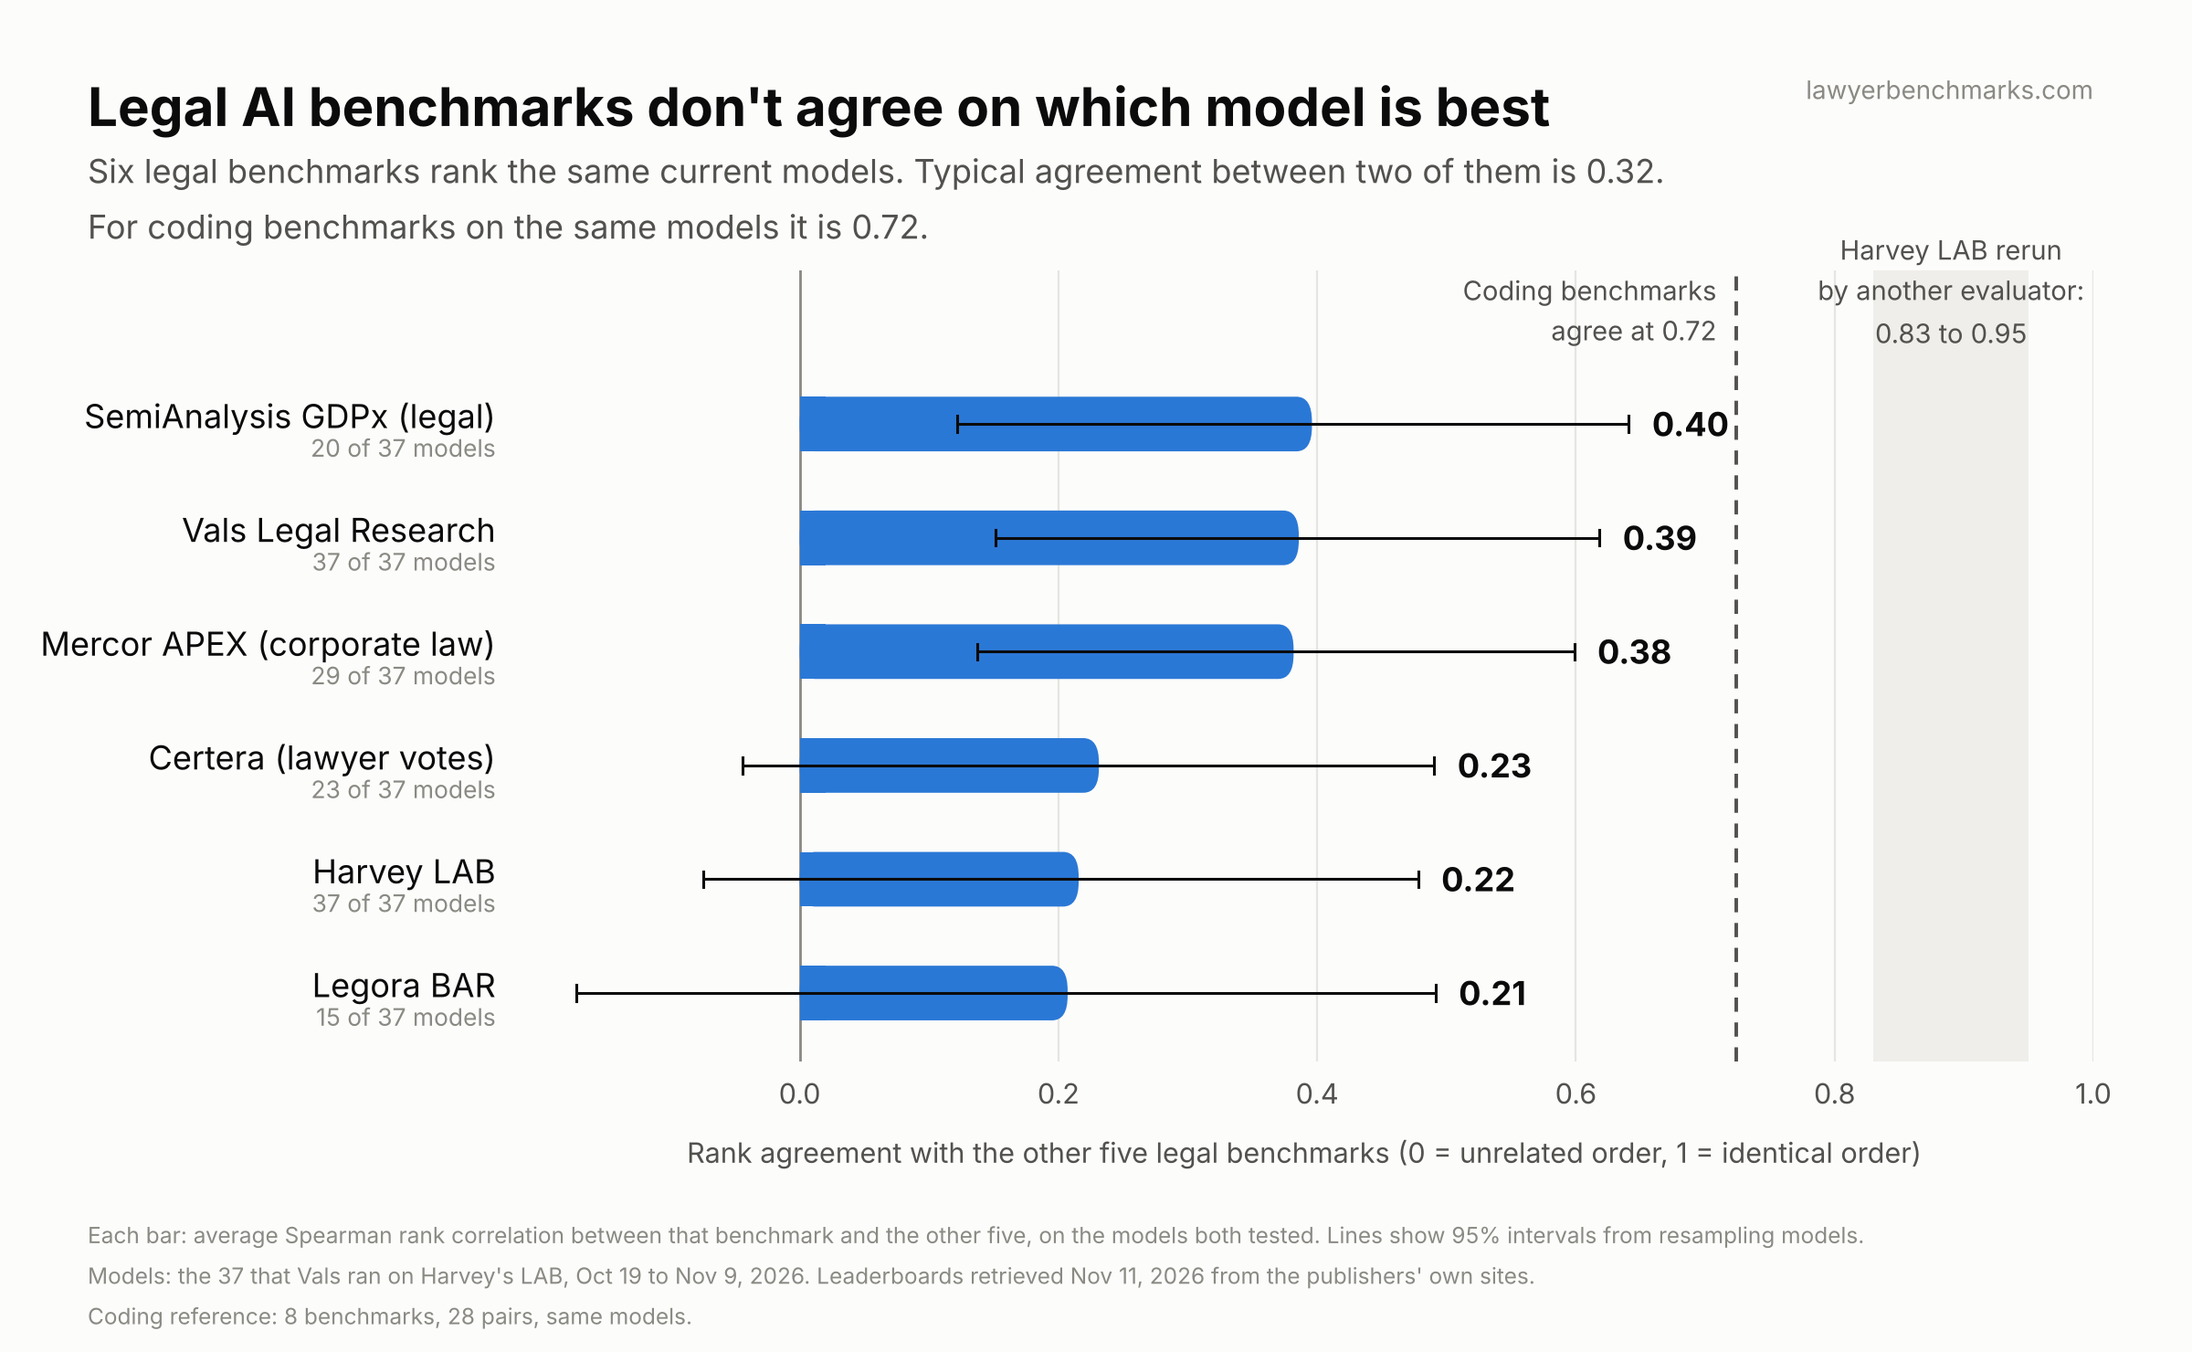
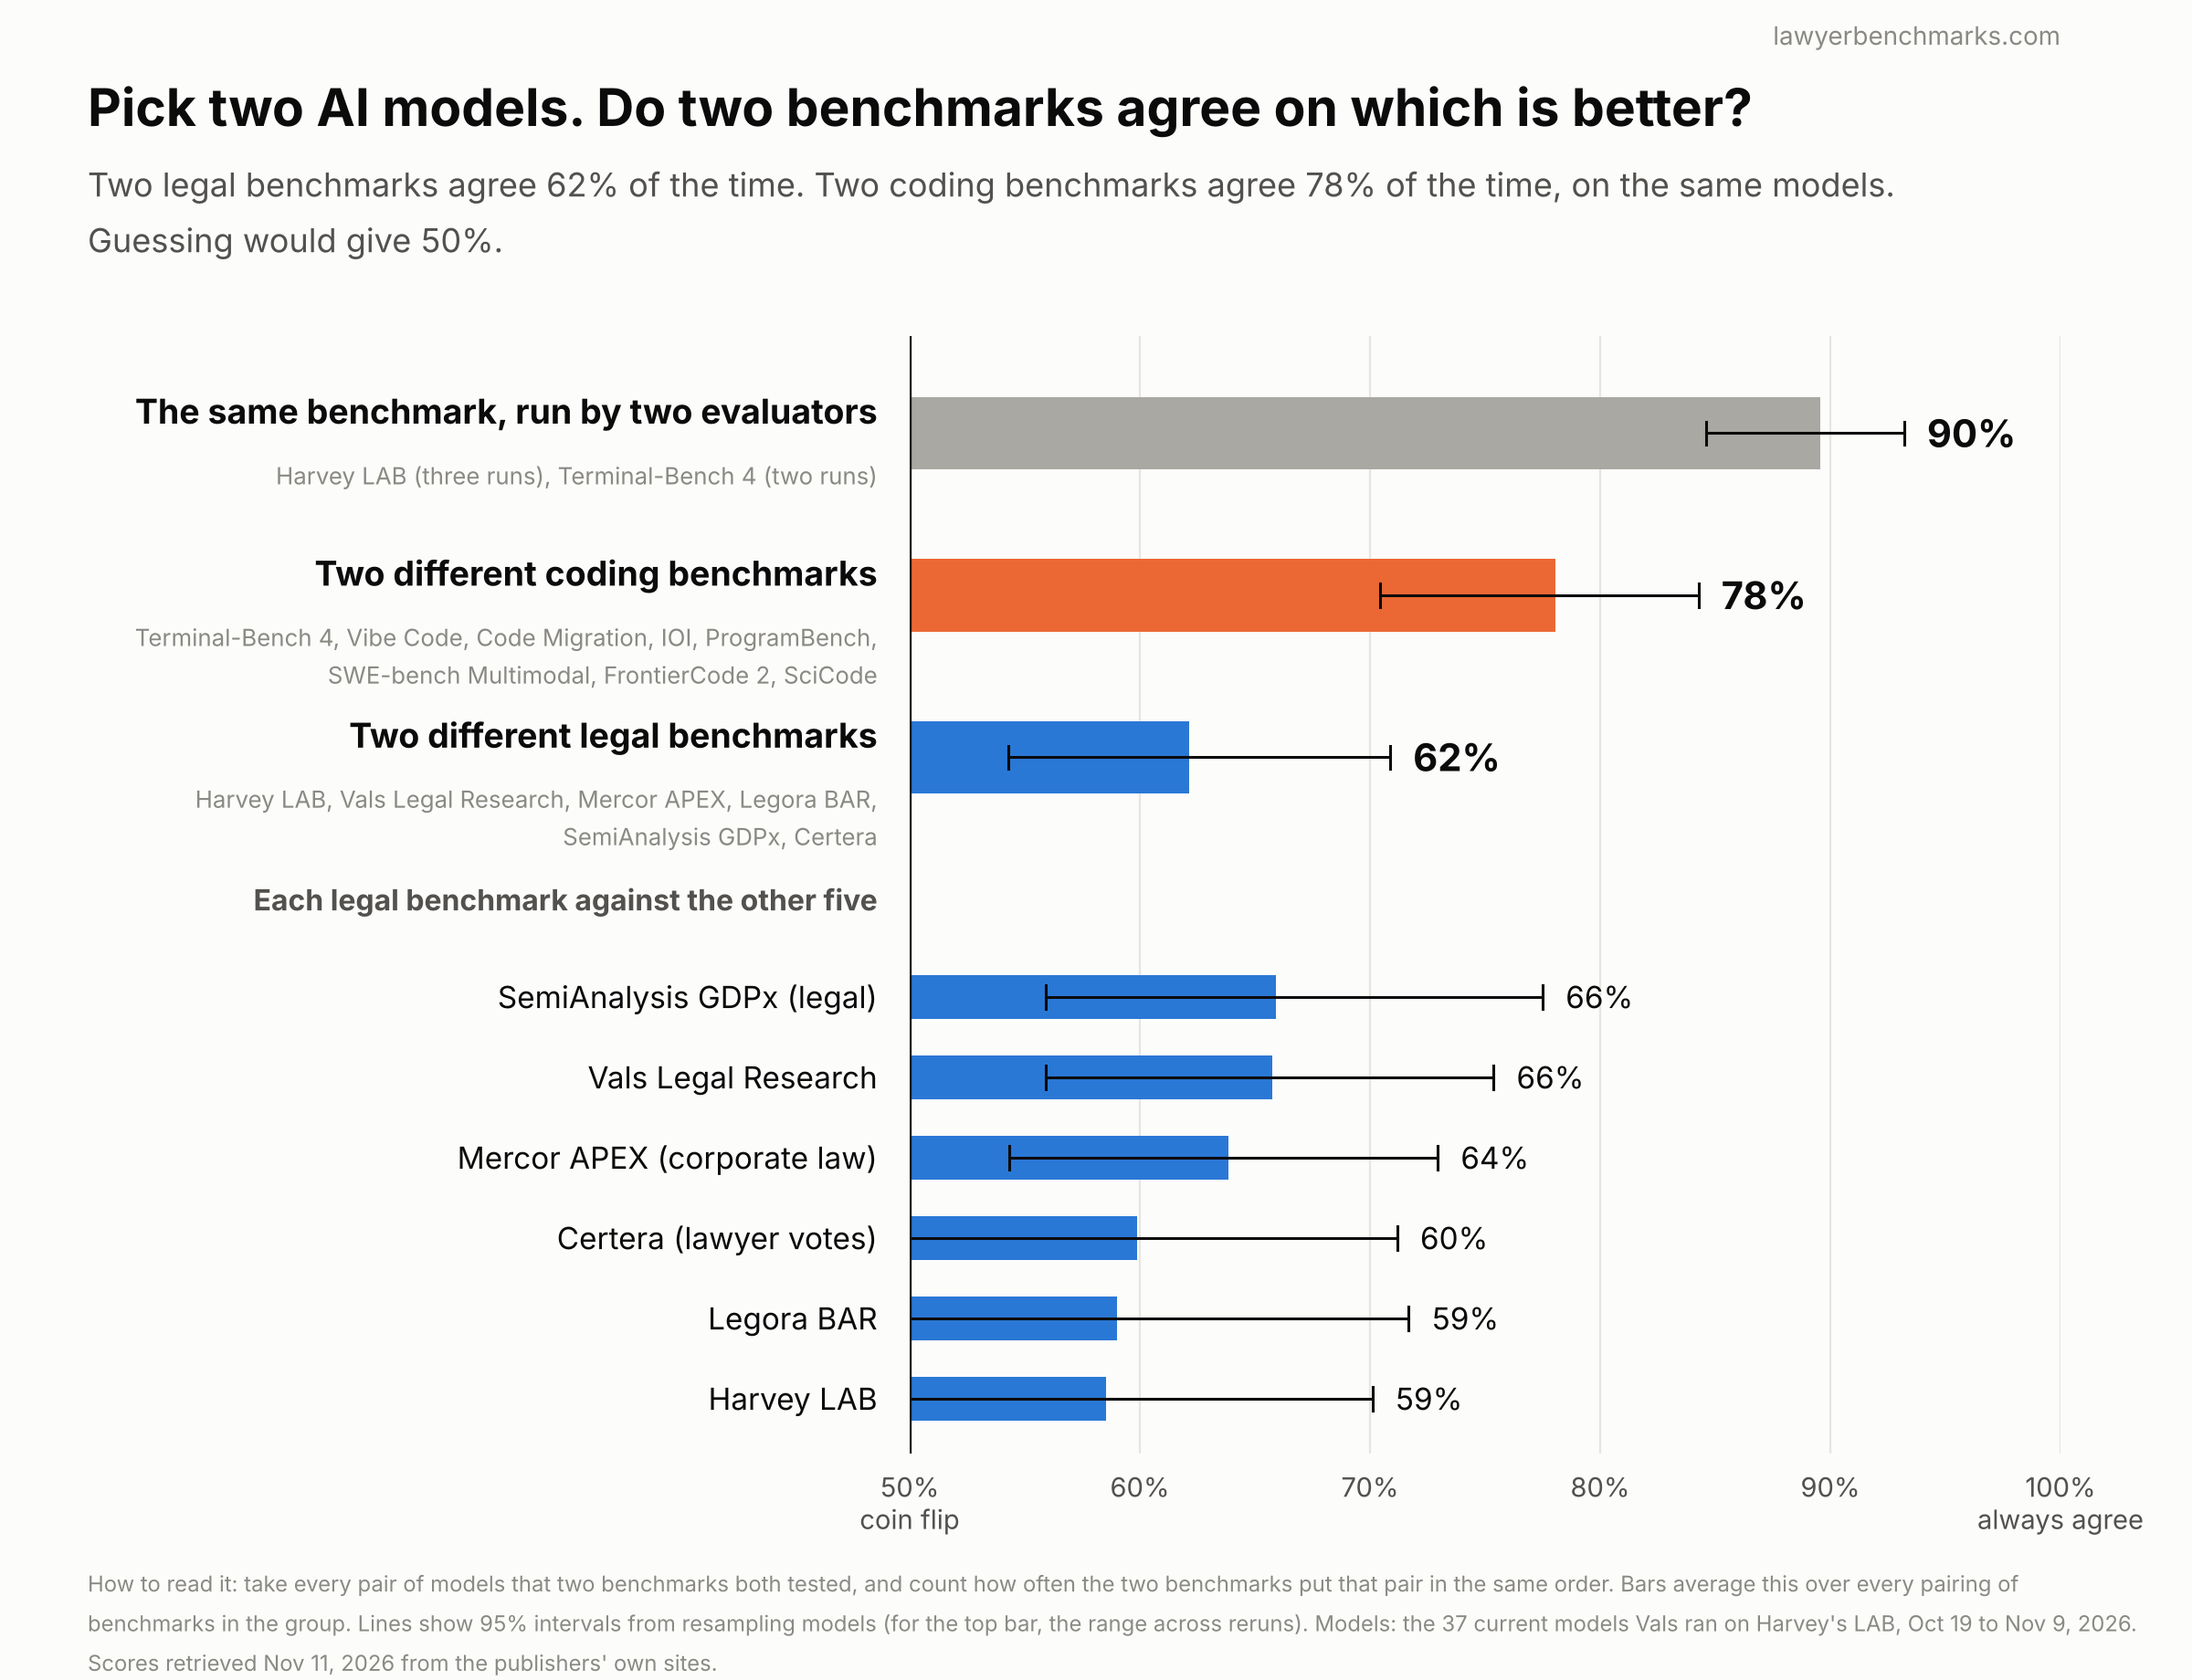
Benchmark agreement draft: plainer measure and redrawn chart
Claude-Session: https://claude.ai/code/session_01TmipKRsNqkBmauKHC5vEDZ

diff --git a/benchmark-agreement/scripts/chart2.py b/benchmark-agreement/scripts/chart2.py
@@ -1,0 +1,43 @@
+import json, matplotlib, numpy as np
+matplotlib.use('Agg')
+import matplotlib.pyplot as plt
+C=json.load(open('data/concord.json'))
+INK='#0b0b0b'; SEC='#52514e'; MUTE='#8a8983'; GRID='#e6e5e0'; SURF='#fcfcfb'; BLUE='#2a78d6'; ORANGE='#eb6834'; GRAY='#a9a8a2'
+same=[v[0]*100 for v in C['same'].values()]
+rows=[  # (label, sublabel, value, lo, hi, color, height)
+ ('The same benchmark, run by two evaluators','Harvey LAB (three runs), Terminal-Bench 4 (two runs)',float(np.mean(same)),min(same),max(same),GRAY,0.5),
+ ('Two different coding benchmarks','Terminal-Bench 4, Vibe Code, Code Migration, IOI, ProgramBench,\nSWE-bench Multimodal, FrontierCode 2, SciCode',C['coding'][1]*100,C['coding_ci'][0]*100,C['coding_ci'][1]*100,ORANGE,0.5),
+ ('Two different legal benchmarks','Harvey LAB, Vals Legal Research, Mercor APEX, Legora BAR,\nSemiAnalysis GDPx, Certera',C['legal'][1]*100,C['legal_ci'][0]*100,C['legal_ci'][1]*100,BLUE,0.5),
+]
+NAME={'GDPx legal':'SemiAnalysis GDPx (legal)','Vals Legal Research':'Vals Legal Research','Mercor APEX law':'Mercor APEX (corporate law)','Certera':'Certera (lawyer votes)','Legora BAR':'Legora BAR','Harvey LAB':'Harvey LAB'}
+per=sorted(C['per_legal'].items(),key=lambda kv:-kv[1])
+fig,ax=plt.subplots(figsize=(12,9.2),dpi=200); fig.patch.set_facecolor(SURF); ax.set_facecolor(SURF)
+plt.subplots_adjust(left=0.415,right=0.94,top=0.80,bottom=0.135)
+y=0; ys=[]
+def bar(y,v,lo,hi,col,h,bold=True):
+    ax.barh(y,v-50,left=50,height=h,color=col,zorder=3,linewidth=0)
+    ax.plot([lo,hi],[y,y],color=INK,lw=1.1,zorder=4); 
+    for x in (lo,hi): ax.plot([x,x],[y-0.09,y+0.09],color=INK,lw=1.1,zorder=4)
+    ax.text(max(hi,v)+1.0,y,f"{v:.0f}%",va='center',ha='left',fontsize=15 if bold else 12,color=INK,fontweight='bold' if bold else 'normal',zorder=5)
+ypos=[0,1.25,2.5]
+for (lab,sub,v,lo,hi,col,h),yy in zip(rows,ypos):
+    bar(yy,v,lo,hi,col,0.56)
+    ax.text(48.6,yy-0.17,lab,ha='right',va='center',fontsize=13.5,color=INK,fontweight='bold')
+    ax.text(48.6,yy+0.2,sub,ha='right',va='top',fontsize=9.3,color=MUTE,linespacing=1.3)
+y0=4.35
+ax.text(48.6,y0-0.75,'Each legal benchmark against the other five',ha='right',va='center',fontsize=11.5,color=SEC,fontweight='bold')
+for i,(k,v) in enumerate(per):
+    yy=y0+i*0.62; lo,hi=[x*100 for x in C['per_legal_ci'][k]]
+    bar(yy,v*100,lo,hi,BLUE,0.34,bold=False)
+    ax.text(48.6,yy,NAME[k],ha='right',va='center',fontsize=12,color=INK)
+ax.axvline(50,color=INK,lw=1.2,zorder=5)
+ax.set_xlim(50,100); ax.set_ylim(y0+len(per)*0.62-0.2,-0.75)
+ax.set_yticks([]); ax.set_xticks([50,60,70,80,90,100]); ax.set_xticklabels(['50%\ncoin flip','60%','70%','80%','90%','100%\nalways agree'],fontsize=10.5,color=SEC); ax.tick_params(axis='x',length=0,pad=7)
+for s in ax.spines.values(): s.set_visible(False)
+ax.xaxis.grid(True,color=GRID,lw=0.8,zorder=0); ax.set_axisbelow(True)
+fig.text(0.04,0.955,"Pick two AI models. Do two benchmarks agree on which is better?",fontsize=20.5,color=INK,fontweight='bold',ha='left',va='top')
+fig.text(0.04,0.905,f"Two legal benchmarks agree {C['legal'][1]*100:.0f}% of the time. Two coding benchmarks agree {C['coding'][1]*100:.0f}% of the time, on the same models.\nGuessing would give 50%.",fontsize=13,color=SEC,ha='left',va='top',linespacing=1.4)
+fig.text(0.04,0.068,"How to read it: take every pair of models that two benchmarks both tested, and count how often the two benchmarks put that pair in the same order. Bars average this over every pairing of\nbenchmarks in the group. Lines show 95% intervals from resampling models (for the top bar, the range across reruns). Models: the 37 current models Vals ran on Harvey's LAB, Oct 19 to Nov 9, 2026.\nScores retrieved Nov 11, 2026 from the publishers' own sites.",fontsize=8.6,color=MUTE,ha='left',va='top',linespacing=1.5)
+fig.text(0.94,0.988,"lawyerbenchmarks.com",fontsize=10,color=MUTE,ha='right',va='top')
+out='/home/user/lawyerbenchmarks/benchmark-agreement/legal-benchmarks-agreement.png'
+fig.savefig(out,facecolor=SURF); print(out)

diff --git a/benchmark-agreement/scripts/concord.py b/benchmark-agreement/scripts/concord.py
@@ -1,0 +1,42 @@
+import json,itertools,numpy as np,sys
+sys.path.insert(0,'scripts')
+from final import T,LEGAL,CODE,cohort
+rng=np.random.default_rng(71)
+def conc(a,b,ms,minn=10):
+    """Share of model pairs that the two benchmarks put in the same order (ties in either benchmark dropped)."""
+    ms=[m for m in ms if m in T[a] and m in T[b]]
+    if len(set(ms))<minn: return None,len(set(ms))
+    same=tot=0
+    for i,j in itertools.combinations(range(len(ms)),2):
+        da=T[a][ms[i]]-T[a][ms[j]]; db=T[b][ms[i]]-T[b][ms[j]]
+        if da==0 or db==0: continue
+        tot+=1; same+= (da>0)==(db>0)
+    return same/tot,len(ms)
+def allpairs(G,ms,minn=10): return {(x,y):conc(G[x],G[y],ms,minn) for x,y in itertools.combinations(G,2)}
+def pooled(P): v=[x[0] for x in P.values() if x[0] is not None]; return float(np.median(v)),float(np.mean(v))
+PL=allpairs(LEGAL,cohort); PC=allpairs(CODE,cohort)
+print('legal median/mean concordance',np.round(pooled(PL),3),' coding',np.round(pooled(PC),3))
+SAME={'LAB: Vals vs Artificial Analysis':('LAB (Vals run)','LAB (AA run, ungated)'),'LAB: Vals vs Mercor':('LAB (Vals run)','LAB (Mercor run)'),'LAB: Artificial Analysis vs Mercor':('LAB (AA run, ungated)','LAB (Mercor run)'),'Terminal-Bench 4: Vals vs Artificial Analysis':('Terminal-Bench 4 (Vals run)','Terminal-Bench 4 (AA run)')}
+S={k:conc(a,b,cohort) for k,(a,b) in SAME.items()}; print({k:(round(v[0],3),v[1]) for k,v in S.items()})
+per={}
+for k in LEGAL: per[k]=float(np.mean([x[0] for (i,j),x in PL.items() if k in (i,j) and x[0] is not None]))
+perc={k:float(np.mean([x[0] for (i,j),x in PC.items() if k in (i,j) and x[0] is not None])) for k in CODE}
+print('per legal',{k:round(v,3) for k,v in per.items()}); print('per coding',{k:round(v,3) for k,v in perc.items()})
+# bootstrap
+bl=[];bc=[];bd=[];bper={k:[] for k in LEGAL}
+for _ in range(2000):
+    s=list(rng.choice(cohort,len(cohort))); p=allpairs(LEGAL,s,8); c=allpairs(CODE,s,8); a=pooled(p)[1]; b=pooled(c)[1]; bl.append(a);bc.append(b);bd.append(b-a)
+    for k in LEGAL:
+        v=[x[0] for (i,j),x in p.items() if k in (i,j) and x[0] is not None]; bper[k].append(np.mean(v) if v else np.nan)
+ci=lambda v:[float(x) for x in np.nanpercentile(v,[2.5,97.5])]
+print('legal mean CI',np.round(ci(bl),3),'coding',np.round(ci(bc),3),'diff',round(pooled(PC)[1]-pooled(PL)[1],3),np.round(ci(bd),3),'P',(np.array(bd)<=0).mean())
+# cross-publisher only
+VALSRUN={'Harvey LAB','Vals Legal Research'}; AARUN={'FrontierCode 2','SciCode'}
+xl=[x[0] for (i,j),x in PL.items() if not ({i,j}<=VALSRUN) and x[0] is not None]
+xc=[x[0] for (i,j),x in PC.items() if (i in AARUN)!=(j in AARUN) and x[0] is not None]
+print('cross-evaluator only: legal mean %.3f median %.3f (%d pairs) | coding mean %.3f median %.3f (%d pairs)'%(np.mean(xl),np.median(xl),len(xl),np.mean(xc),np.median(xc),len(xc)))
+# score spread: how compressed is each benchmark among cohort models (coefficient: IQR / range share)
+for G in (LEGAL,CODE):
+    for k,v in G.items():
+        x=np.array([T[v][m] for m in cohort if m in T[v]],float); print(f"   {k:22} n={len(x):2} min {x.min():7.2f} median {np.median(x):7.2f} max {x.max():7.2f}  distinct values {len(set(np.round(x,2)))}")
+json.dump({'legal_pairs':{f'{a}|{b}':v for (a,b),v in PL.items()},'coding_pairs':{f'{a}|{b}':v for (a,b),v in PC.items()},'same':S,'per_legal':per,'per_legal_ci':{k:ci(v) for k,v in bper.items()},'per_coding':perc,'legal':pooled(PL),'coding':pooled(PC),'legal_ci':ci(bl),'coding_ci':ci(bc),'diff_ci':ci(bd),'cross':{'legal':float(np.mean(xl)),'coding':float(np.mean(xc))}},open('data/concord.json','w'),indent=1)

diff --git a/benchmark-agreement/README.md b/benchmark-agreement/README.md
@@ -4,14 +4,24 @@ Draft, 11 November 2026. Not committed to the site.
 
 ## The finding
 
-Six legal benchmarks rank the same current models. Two of them typically agree at 0.32 (Spearman rank correlation, where 0 is an unrelated order and 1 is an identical order). Eight coding benchmarks on the same models typically agree at 0.72.
+Pick any two current AI models. Two legal benchmarks agree on which one is better 62% of the time. Two coding benchmarks agree 78% of the time, on the same models. Guessing would give 50%.
 
-| | Benchmarks | Pairs | Median agreement | 95% interval |
+| Comparison | Agreement on which of two models is better | 95% interval |
+|---|---|---|
+| The same benchmark, run by two evaluators | 85% to 93% | range across four reruns |
+| Two different coding benchmarks (8 benchmarks, 28 pairings) | 78% | 70% to 84% |
+| Two different legal benchmarks (6 benchmarks, 15 pairings) | 62% | 54% to 71% |
+
+The gap between coding and legal is 16 points, with a 95% interval of 6 to 25. Coding came out at or below law in 0.2% of resamples. Counting only pairings where the two benchmarks were run by different evaluators gives 61% for legal and 78% for coding.
+
+The same result as a rank correlation (Spearman, 0 is an unrelated order and 1 is identical): legal benchmarks typically agree at 0.32, coding benchmarks at 0.72.
+
+| | Benchmarks | Pairs | Median rank correlation | 95% interval |
 |---|---|---|---|---|
 | Legal | 6 | 15 | 0.32 | 0.07 to 0.56 |
 | Coding | 8 | 28 | 0.72 | 0.54 to 0.84 |
 
-The gap is 0.41, with a 95% interval of 0.15 to 0.65. Coding came out at or below law in 0.03% of resamples.
+On that scale the gap is 0.41, with a 95% interval of 0.15 to 0.65.
 
 This is not because legal benchmarks are unrepeatable. Harvey's LAB has been run by three evaluators (Vals, Artificial Analysis, Mercor), and their rankings agree at 0.83 to 0.95. A coding benchmark run by two evaluators (Terminal-Bench 4, Vals and Artificial Analysis) agrees at 0.96.
 
@@ -32,7 +42,7 @@ Every pair, with the number of shared models, is in `data/pairs.csv`. The scores
 
 - **Models.** The 37 models Vals ran on Harvey's LAB between 19 October and 9 November 2026. This set was chosen because it is defined by recency, not by score. Each pair of benchmarks is compared on the models both tested, and a pair needs at least 10 shared models.
 - **Scores.** Each benchmark's own headline score, taken from the publisher's site on 11 November 2026. Where a source ran a model at several effort settings, the highest setting is used.
-- **Agreement.** Spearman rank correlation between two benchmarks' scores.
+- **Agreement.** For two benchmarks, the share of model pairs they put in the same order, over the models both tested (ties dropped). Spearman rank correlation is reported alongside.
 - **Intervals.** Models were resampled with replacement 3,000 times and every statistic recomputed.
 - **Coding reference.** Terminal-Bench 4, Vibe Code, Code Migration, IOI, ProgramBench and SWE-bench Multimodal (all as run by Vals), plus FrontierCode 2 and SciCode (Artificial Analysis).
 
